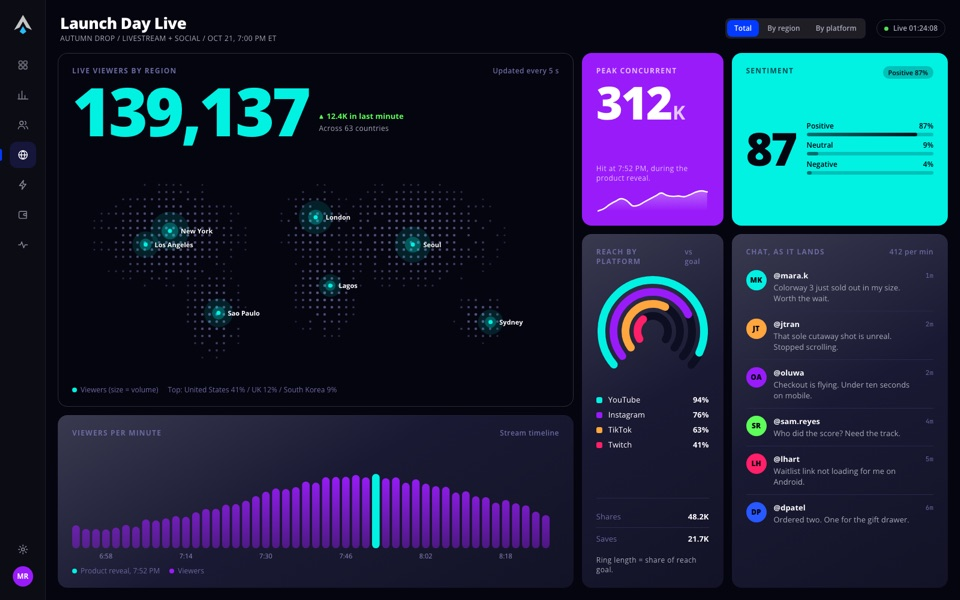
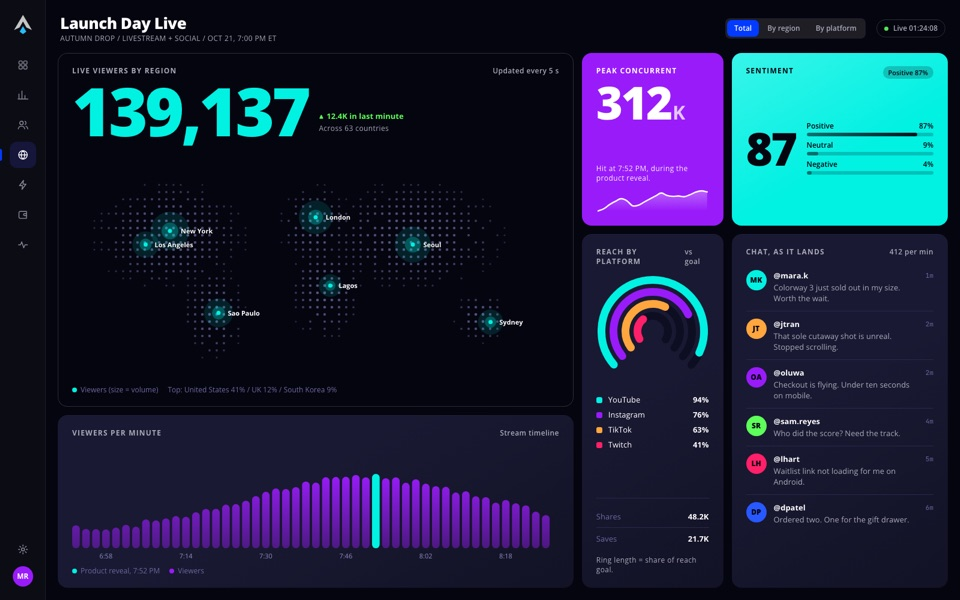
northstar: sync corner title contrast fix

diff --git a/northstar/css/dashboards.css b/northstar/css/dashboards.css
@@ -55,7 +55,7 @@ body { font-family: var(--ns-font-sans); color: var(--ns-text-primary); -webkit-
 .t--blue   { background: var(--ns-interactive-primary); color: var(--ns-text-on-color); box-shadow: none; --ink: var(--ns-text-on-color); --ink2: color-mix(in srgb, var(--ink) 70%, transparent); --faint: color-mix(in srgb, var(--ink) 20%, transparent); }
 .t--bruise { background: var(--ns-chart-series-3); color: var(--ns-text-on-color); box-shadow: none; --ink: var(--ns-text-on-color); --ink2: color-mix(in srgb, var(--ink) 70%, transparent); --faint: color-mix(in srgb, var(--ink) 20%, transparent); }
 .t--teal   { background: var(--ns-chart-series-1); color: var(--ns-text-inverse); box-shadow: none; --ink: var(--ns-text-inverse); --ink2: color-mix(in srgb, var(--ink) 70%, transparent); --faint: color-mix(in srgb, var(--ink) 20%, transparent); }
-:root[data-theme="light"] .t--teal { color: var(--ns-text-primary); --ink: var(--ns-text-primary); } /* series-1 teal is light in light mode: dark ink holds AA */
+:root[data-theme="light"] .t--teal, :root[data-theme="light"] .t--green, :root[data-theme="light"] .t--amber { color: var(--ns-text-primary); --ink: var(--ns-text-primary); --ink2: color-mix(in srgb, var(--ink) 86%, transparent); } /* series-1 teal is light in light mode: dark ink holds AA */
 .t--green  { background: var(--ns-viz-5); color: var(--ns-text-inverse); box-shadow: none; --ink: var(--ns-text-inverse); --ink2: color-mix(in srgb, var(--ink) 70%, transparent); --faint: color-mix(in srgb, var(--ink) 20%, transparent); }
 .t--amber  { background: var(--ns-viz-3); color: var(--ns-text-inverse); box-shadow: none; --ink: var(--ns-text-inverse); --ink2: color-mix(in srgb, var(--ink) 70%, transparent); --faint: color-mix(in srgb, var(--ink) 20%, transparent); }
 .t--paper  { background: var(--ns-background-inverse); color: var(--ns-text-inverse); box-shadow: none; --ink: var(--ns-text-inverse); --ink2: color-mix(in srgb, var(--ink) 70%, transparent); --faint: color-mix(in srgb, var(--ink) 20%, transparent); }
@@ -66,9 +66,11 @@ body { font-family: var(--ns-font-sans); color: var(--ns-text-primary); -webkit-
 .t--flush { padding: 0; }
 .t--tight { padding: var(--ns-space-5) 18px; }
 
-.t[class*="t--blue"], .t[class*="t--bruise"], .t[class*="t--teal"], .t[class*="t--green"], .t[class*="t--amber"], .t--paper { --lbl: var(--ink2); --ramp-from: color-mix(in srgb, var(--ink) var(--ns-chart-ramp-fade), transparent); } /* on a block the ramp is the ink, faded to full */
+.t[class*="t--blue"], .t[class*="t--bruise"], .t[class*="t--teal"], .t[class*="t--green"], .t[class*="t--amber"], .t--paper { --lbl: var(--ink); --ramp-from: color-mix(in srgb, var(--ink) var(--ns-chart-ramp-fade), transparent); } /* on a block the ramp is the ink, faded to full */
 .t--ink, .t--line { background-image: none; }
-.o { /* corner title */ font: 700 var(--ns-type-chart-title-size)/16px var(--ns-font-sans); letter-spacing: 1.2px; text-transform: uppercase; color: var(--lbl, var(--ns-widget-muted)); display: flex; align-items: center; gap: var(--ns-space-3); }
+.t--teal, .t--green, .t--amber, .t--paper { background-image: var(--ns-chart-sheen-light); } /* dark ink: the sheen may only lighten */
+.t--blue, .t--bruise { --ink2: color-mix(in srgb, var(--ink) 92%, transparent); } /* white on blue or purple needs nearly full ink to hold 4.5:1 */
+.o { /* corner title */ font: 700 var(--ns-type-chart-title-size)/16px var(--ns-font-sans); letter-spacing: 1.2px; text-transform: uppercase; color: var(--lbl, var(--ns-text-secondary)); display: flex; align-items: center; gap: var(--ns-space-3); } /* widget-muted was 3.4:1 on the tile */
 .o em { font-style: normal; margin-left: auto; letter-spacing: .4px; text-transform: none; font-weight: 600; font-size: var(--ns-type-caption-size); }
 .cap { font: 400 12px/16px var(--ns-font-sans); letter-spacing: .4px; color: var(--ink2, var(--ns-text-secondary)); }
 .ttl { margin: 0; font: 700 16px/22px var(--ns-font-sans); }

diff --git a/northstar/css/site.css b/northstar/css/site.css
@@ -624,13 +624,13 @@ body:not(.is-home) .shell::before { content: ""; position: absolute; top: 0; bot
 .bt--teal, .bt--blue, .bt--purple {
   background-color: var(--_block); border-color: transparent; color: var(--ink);
   --ramp-from: color-mix(in srgb, var(--ink) var(--ns-chart-ramp-fade), transparent);
-  --ns-text-primary: var(--ink); --ns-text-secondary: color-mix(in srgb, var(--ink) 78%, transparent); --ns-text-tertiary: color-mix(in srgb, var(--ink) 78%, transparent);
-  --ns-chart-label-text: color-mix(in srgb, var(--ink) 78%, transparent); --ns-chart-trend-text: var(--ink); --ns-chart-target: var(--ink);
+  --ns-text-primary: var(--ink); --ns-text-secondary: color-mix(in srgb, var(--ink) 92%, transparent); --ns-text-tertiary: color-mix(in srgb, var(--ink) 92%, transparent);
+  --ns-chart-label-text: color-mix(in srgb, var(--ink) 92%, transparent); --ns-chart-trend-text: var(--ink); --ns-chart-target: var(--ink);
   --ns-chart-series-1: var(--ink); --ns-chart-series-2: color-mix(in srgb, var(--ink) 55%, transparent); --ns-chart-series-3: color-mix(in srgb, var(--ink) 36%, transparent); --ns-chart-series-4: color-mix(in srgb, var(--ink) 74%, transparent); --ns-chart-series-5: color-mix(in srgb, var(--ink) 28%, transparent);
   --ns-chart-track: color-mix(in srgb, var(--ink) 16%, transparent); --ns-widget-grid: color-mix(in srgb, var(--ink) 18%, transparent); --ns-widget-track: color-mix(in srgb, var(--ink) 16%, transparent);
   --ns-border-default: color-mix(in srgb, var(--ink) 18%, transparent); --ns-interactive-primary: var(--ink);
 }
-.bt--teal { --_block: var(--ns-viz-1); /* not chart-series-1: the block remaps that to ink */ --ink: var(--ns-text-inverse); }
+.bt--teal { background-image: var(--ns-chart-sheen-light); --_block: var(--ns-viz-1); /* not chart-series-1: the block remaps that to ink */ --ink: var(--ns-text-inverse); }
 :root[data-theme="light"] .bt--teal { --ink: var(--ns-black); }
 .bt--blue { --_block: var(--ns-blue-500); --ink: var(--ns-text-on-color); }
 .bt--purple { --_block: var(--ns-purple-500); --ink: var(--ns-text-on-color); }

diff --git a/northstar/css/tokens.css b/northstar/css/tokens.css
@@ -207,7 +207,8 @@
   --ns-chart-cap: round;
   --ns-chart-ramp-from: var(--ns-chart-series-2); /* low end of the one chart ramp; the high end is the series color */
   --ns-chart-ramp-fade: 42%;   /* ramp start for ink on a color block and for series other than series-1 */
-  --ns-chart-sheen: linear-gradient(150deg, color-mix(in srgb, #ffffff 14%, transparent) 0%, transparent 48%, color-mix(in srgb, #000000 24%, transparent) 100%); /* soft diagonal over a tile's own color */
+  --ns-chart-sheen: linear-gradient(150deg, transparent 0%, transparent 42%, color-mix(in srgb, #000000 26%, transparent) 100%); /* soft diagonal over a tile's own color. Darkens only, so light text never loses contrast */
+  --ns-chart-sheen-light: linear-gradient(150deg, color-mix(in srgb, #ffffff 22%, transparent) 0%, transparent 58%); /* the same diagonal for blocks with dark ink (teal, green, amber, paper). Lightens only */
   --ns-type-chart-title-size: 12px; /* tile corner titles (overline was 10px) */
 
   --ns-gradient-brand: linear-gradient(135deg, var(--ns-blue-500), var(--ns-teal-500));

diff --git a/northstar/agent/northstar.md b/northstar/agent/northstar.md
@@ -2,7 +2,7 @@
 
 > Machine-readable guide for AI coding and design agents. Generated 2026-11-09 from the live catalog by tools/agent-export.mjs; do not edit by hand. Site: https://mikelrosenthal.com/northstar/ · Figma file VZxmDNQiosTN6gqnvEQ65Z.
 
-NorthStar is a design language and development kit for dense, dark, data-heavy enterprise consoles: 57 components, 223 tokens, dark and light themes, comfortable and compact density. Markup is framework-free HTML with ns- classes; style comes only from CSS custom properties.
+NorthStar is a design language and development kit for dense, dark, data-heavy enterprise consoles: 57 components, 224 tokens, dark and light themes, comfortable and compact density. Markup is framework-free HTML with ns- classes; style comes only from CSS custom properties.
 
 ## Files
 
@@ -138,7 +138,8 @@ Use these roles in components. Values are the dark theme; light overrides are in
 | `--ns-chart-series-3` | #991bfa | same |
 | `--ns-chart-series-4` | #7844f9 | #4807ea |
 | `--ns-chart-series-5` | #6a6a9f | #5a5a8f |
-| `--ns-chart-sheen` | linear-gradient(150deg, color-mix(in srgb, #ffffff 14%, transparent) 0%, transparent 48%, color-mix(in srgb, #000000 24%, transparent) 100%) | same |
+| `--ns-chart-sheen` | linear-gradient(150deg, transparent 0%, transparent 42%, color-mix(in srgb, #000000 26%, transparent) 100%) | same |
+| `--ns-chart-sheen-light` | linear-gradient(150deg, color-mix(in srgb, #ffffff 22%, transparent) 0%, transparent 58%) | same |
 | `--ns-chart-stroke` | 2.5px | same |
 | `--ns-chart-stroke-thin` | 1.5px | same |
 | `--ns-chart-target` | #ffffff | #05050f |
